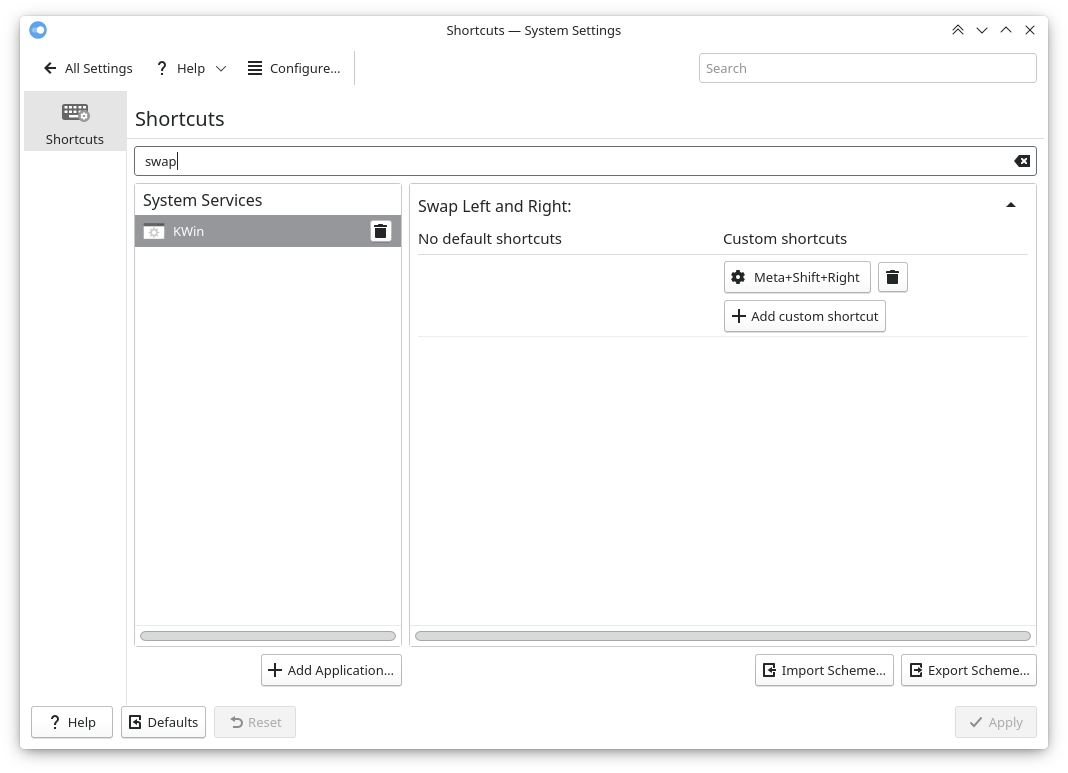
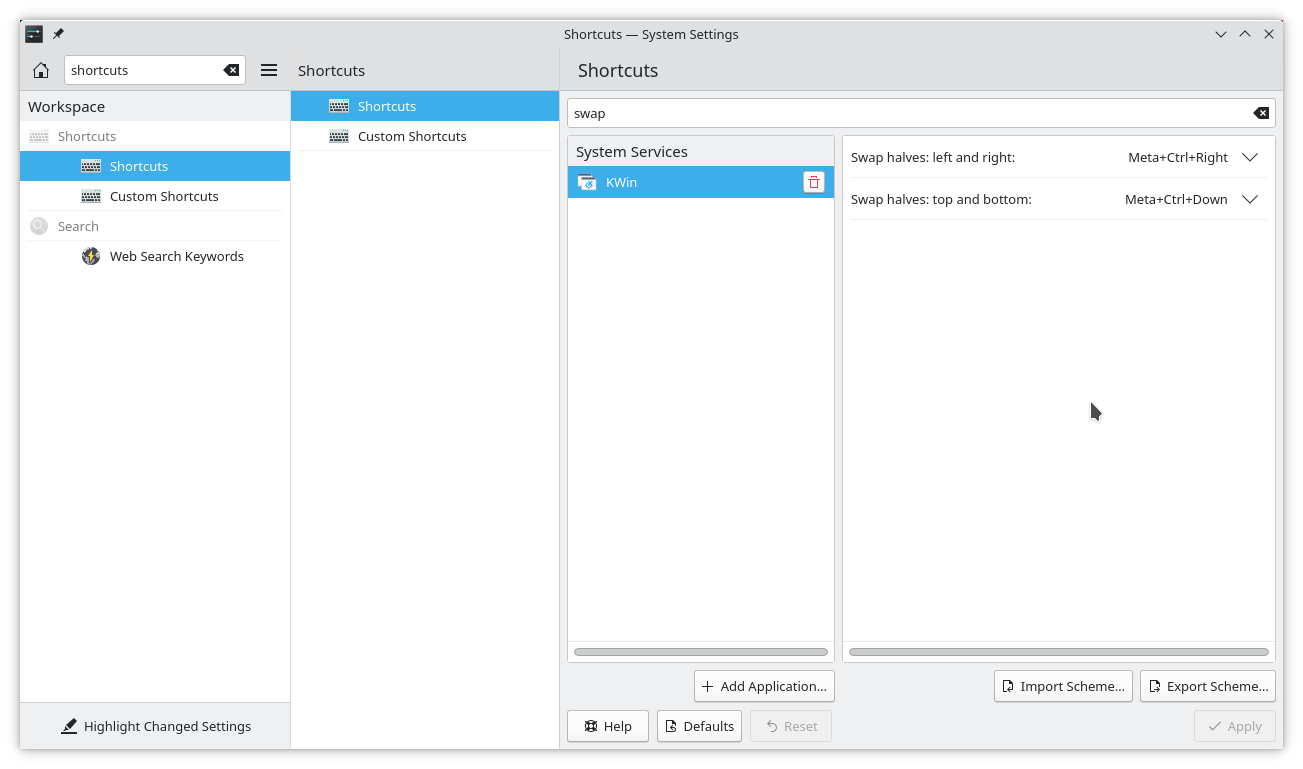
update screenshot

Changed region(s): [[0.0, 0.0, 0.9888, 0.9987], [0.8343, 0.5306, 0.8652, 0.5618], [0.2163, 0.9051, 0.2472, 0.9363]]

diff --git a/swap-halves/contents/code/main.js b/swap-halves/contents/code/main.js
@@ -7,7 +7,7 @@ GNU General Public License v3.0
 // swap left and right halves for the active window
 registerShortcut("Swap halves: left and right", 
                  "Swap halves: left and right", 
-                 "Meta+Shift+Right", 
+                 "Meta+Ctrl+Right", 
                  () => {
     console.debug("swaphalves:", "left and right");
 
@@ -46,7 +46,7 @@ registerShortcut("Swap halves: left and right",
 // swap top and bottom halves for the active window
 registerShortcut("Swap halves: top and bottom", 
                  "Swap halves: top and bottom", 
-                 "Meta+Shift+Down", 
+                 "Meta+Ctrl+Down", 
                  () => {
     console.debug("swaphalves:", "top and bottom");
 
